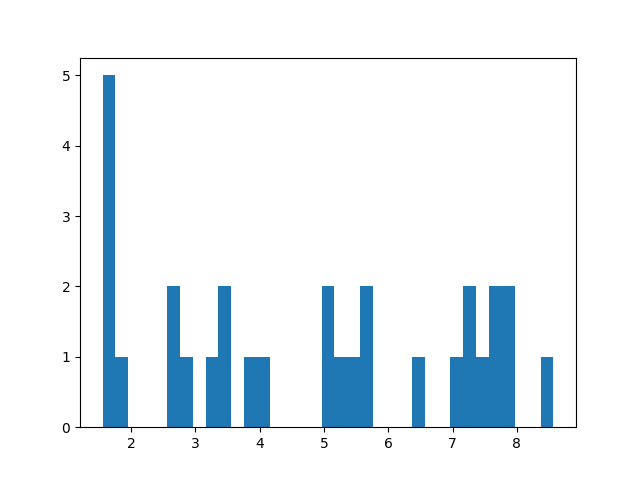
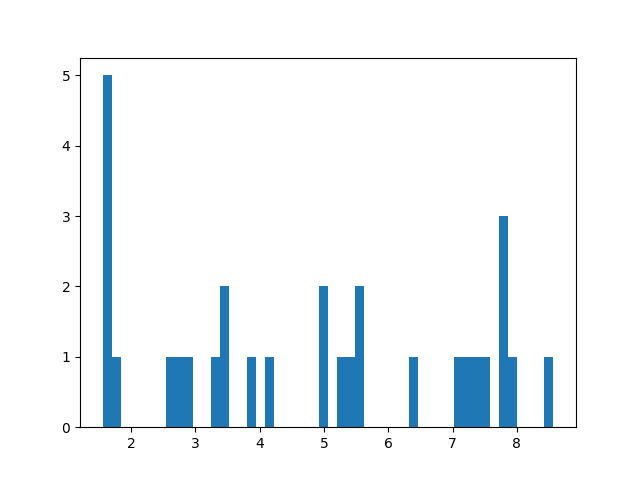
-

diff --git a/elecmag/elecmag_01/elecmag_01.tex b/elecmag/elecmag_01/elecmag_01.tex
@@ -80,11 +80,38 @@ g = 9.81
 m = 5.7e-16;
 df['q'] = m * g * d / df.V
 df['q'] = np.abs(df.q)*1e19
-ax = plt.hist(df.q ,bins=35)
+ax = plt.hist(df.q ,bins=50)
 plt.savefig('elecmag_02.png')
 \end{minted}
 
+\begin{minted}[fontsize=\footnotesize]{python}
+m1 = df.q[df.q < 2.5].mean()
+m2 = df.q[(df.q > 2.5) & (df.q < 4.0)].mean()
+m3 = df.q[(df.q > 4.0) & (df.q < 5.5)].mean()
+m4 = df.q[(df.q > 5.5) & (df.q < 7.5)].mean()
+m5 = df.q[(df.q > 7.5) & (df.q < 8.0)].mean()
+ms = [0,m1,m2,m3,m4]
+print np.diff(np.array(ms))
+print np.diff(np.array(ms)).mean()
+\end{minted}
 
+\begin{verbatim}
+[1.63877631 1.55807967 1.77520054 1.71220859]
+1.671066276781408
+\end{verbatim}
+
+
+\begin{minted}[fontsize=\footnotesize]{python}
+import pandas as pd
+
+df = pd.read_csv('millikan2.csv')
+df.columns = ['m','E']
+g = 9.81
+df['q'] = df.m * g / df.E
+df['q'] = np.abs(df.q)*1e19
+ax = plt.hist(df.q ,bins=50)
+plt.savefig('elecmag_03.png')
+\end{minted}
 
 
 
